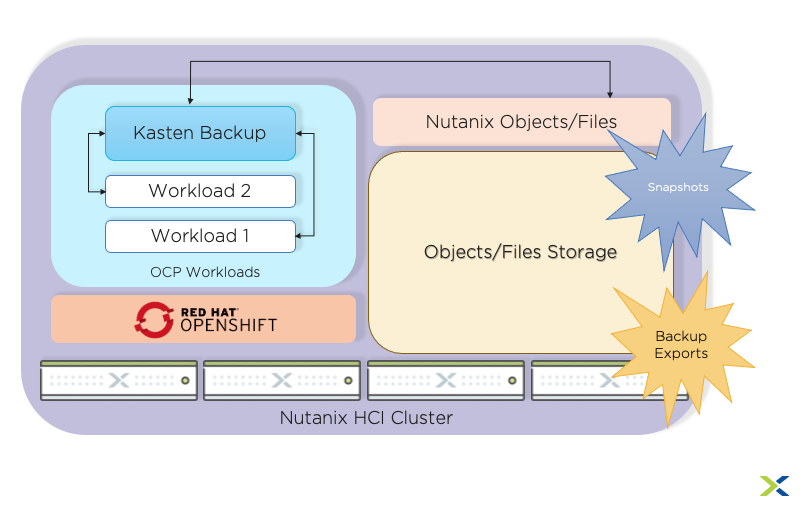
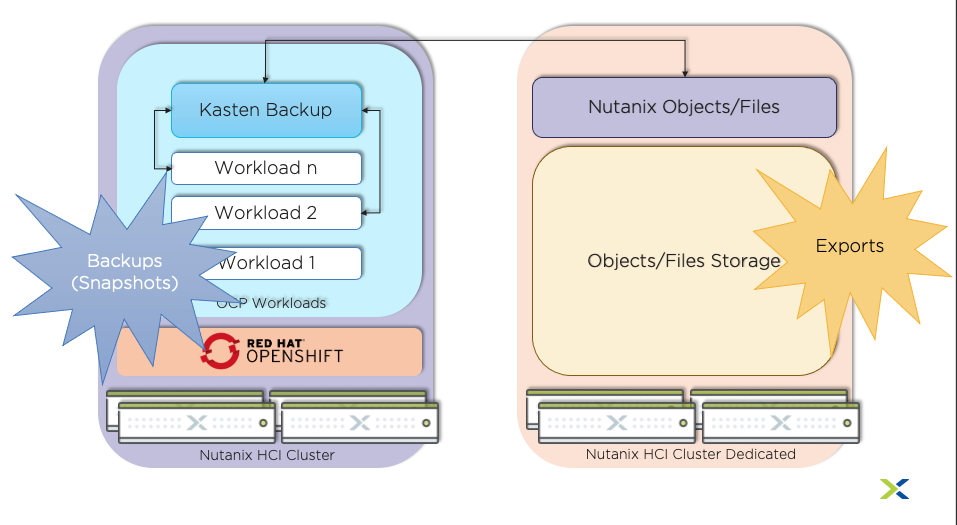
Fri Mar  4 14:42:32 JST 2022

diff --git a/ocp_k10/ocp_k10.rst b/ocp_k10/ocp_k10.rst
@@ -18,17 +18,17 @@ At the very high level, implementing backup, restore and DR involves the followi
 We will also be implement Nutanix HCI snapshots to facilitate quiescing of worloads to back them up. This will be done using VolumeSnapshotClass kubernetes object in this lab.
 
 .. list-table::
-  :widths: 25 50 25
+  :widths: 15 30 10
   :header-rows: 1
 
   * - Concept
     - Storage Location
     - RTO/RPO
-  * - Snapshots
+  * - Backup (Snapshots)
     - Nutanix HCI Cluster (along with Storage container)
     - High
-  * - Backup Exports
-    - Nutanix Objects S3 (referred as Export location)
+  * - Exports
+    - Nutanix Objects S3 (stored in backup target)
     - Medium
 
 Potential Architectures
@@ -172,9 +172,10 @@ In this section we will install Kasten K10 in our OCP cluster to backup and rest
 
     .. code-block:: bash
       
-        oc get pods -n kasten-io
+        oc get pods -n kasten-io -w
 
-        #Output here. Make sure all pods are running
+        # Output here. Wait until  all pods are running
+        # This may take a few minutes 
 
         NAME                                  READY   STATUS    RESTARTS   AGE
         aggregatedapis-svc-7874bdc658-hcvbh   1/1     Running   0          3m26s
@@ -217,7 +218,7 @@ In this section we will install Kasten K10 in our OCP cluster to backup and rest
     
    .. code-block:: url 
 
-     http://k10-route-kasten-io.apps.ocp1.ntnxlab.local/k10
+     http://k10-route-kasten-io.apps.ocp1.ntnxlab.local/k10/
    
 #. Copy the URL and paste in a browser in your **WindowsToolsVM**
 
@@ -331,3 +332,58 @@ Backup Wordpress
 #. You will see the details as follows (it will take a few minutes for the backup to run)
 
    .. figure:: images/kasten_default_backup_success.png
+
+#. Once the backup is finished, you will see that the default namespace/application is Compliant under **Dashboard** > **Applications**
+
+   .. figure:: images/kasten_compliant_defaut_ns.png
+
+#. You can go to Prism Central > Tasks to see snapshots tasks requested by Kasten 
+
+   .. figure:: images/pc_snapshot_tasks.png
+
+#. The volumesnapshot object we created along with other Objects in Nutanix CSI provider has enabled us to do this snapshot and backup
+
+You have completed backup, now let us move on to simulating data loss and restore operations.
+
+Simulating Data Loss 
+++++++++++++++++++++
+
+#. Go to the Wordpress applications Web UI in the other browser tab.
+
+   .. note::
+
+      If you accidentally closed the tab, you can do the following to get the URL
+      
+      Follow instruction here to get the Wordpress Web URL :ref:`ocp_wordpress_deploy`
+
+#. Click on **Users** menu 
+
+#. Hover your mouse prompt over the **admin_1** user
+
+#. You will see the Delete menu
+
+#. Click on **Delete**
+   
+   .. figure:: images/wordpress_user_delete.png
+
+#. Click on **Confirm Deletion**
+
+Restoring Worpress Application
+++++++++++++++++++++++++++++++
+
+#. Browse to your Kasten dashboard
+
+#. Click on the **1 Compliant** part in Applications
+
+   .. figure:: images/kasten_restore_start.png
+
+#. Click on restore 
+
+   .. figure:: images/kasten_restore_2.png
+
+#. You will see two restore points and be asked to **Select an Instance**
+  
+   - Restore from backup (this will restore from Nutanix DFS snapshot)
+   - Restore from export (this will restore from Objects stores xyz-k10 bucket)
+
+#. Select the EXPORTED one to ntnx-objects

diff --git a/ocp_wordpress_deploy/ocp_wordpress_deploy.rst b/ocp_wordpress_deploy/ocp_wordpress_deploy.rst
@@ -154,7 +154,7 @@ Deploying Wordpress App
 
 #. Login to the wordpress site using admin and the password you used to install wordpress application
 
-#. You will see the wordpress administraion page
+#. You will see the wordpress administration page
 
 #. Lets populate some data by creating a new admin user
 
